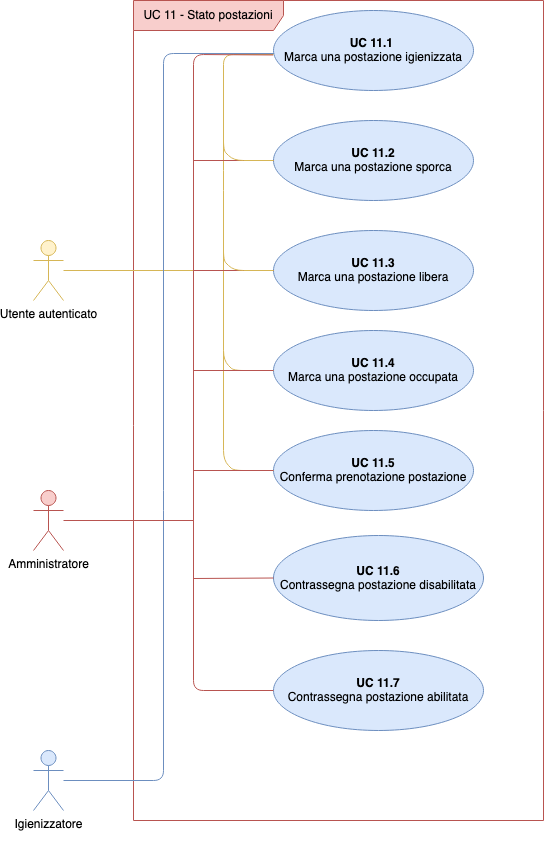
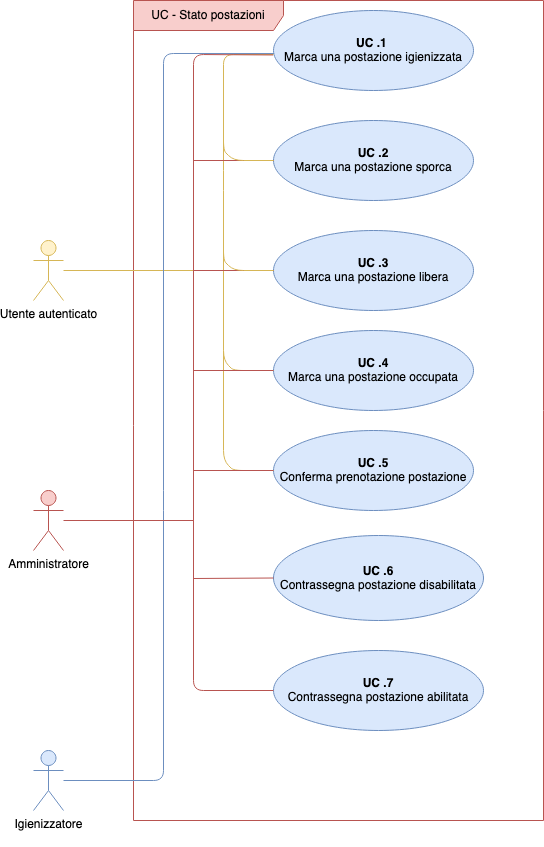
Rimosso numero progressivo UC
Rimosso numero progressivo UC, in attesa di uniformare gli UC prodotti non appena saranno tutti disponibili

diff --git a/DocumentiEsterni/AnalisiDeiRequisiti/src/CasiDUso/src/UC11.tex b/DocumentiEsterni/AnalisiDeiRequisiti/src/CasiDUso/src/UC11.tex
@@ -1,9 +1,9 @@
-\subsubsection{UC 11 - Stato Postazioni}
+\subsubsection{UC - Stato Postazioni}
 
 \begin{figure}[h]
   \centering
     \includegraphics[scale=0.5]{src/CasiDUso/Immagini/UC11.png}
-  \caption{UC11  - Stato prenotazioni}
+  \caption{UC  - Stato prenotazioni}
 \end{figure}
 
 Il presente diagramma vuole riassumere la possibilità di prenotazione delle prenotazioni da parte di un utilizzatore dell’applicazione.
@@ -20,7 +20,7 @@ Il presente diagramma vuole riassumere la possibilità di prenotazione delle pre
 	\end{itemize}
 \end{itemize}
 
-\subsubsection{UC11.1 - Marca postazione igienizzata}
+\subsubsection{UC .1 - Marca postazione igienizzata}
 
 \begin{itemize}
 \item \textbf{Attori primari:} utente autenticato, igienizzatore, amministratore;
@@ -38,7 +38,7 @@ Il presente diagramma vuole riassumere la possibilità di prenotazione delle pre
 	\end{itemize}
 \end{itemize}
 
-\subsubsection{UC11.2 - Marca postazione sporca}
+\subsubsection{UC .2 - Marca postazione sporca}
 
 \begin{itemize}
 \item \textbf{Attori primari:} utente autenticato, amministratore;
@@ -56,7 +56,7 @@ Il presente diagramma vuole riassumere la possibilità di prenotazione delle pre
 	\end{itemize}
 \end{itemize}
 \newpage
-\subsubsection{UC11.3 - Marca postazione libera}
+\subsubsection{UC .3 - Marca postazione libera}
 
 \begin{itemize}
 \item \textbf{Attori primari:} utente autenticato, amministratore;
@@ -74,7 +74,7 @@ Il presente diagramma vuole riassumere la possibilità di prenotazione delle pre
 	\end{itemize}
 \end{itemize}
 
-\subsubsection{UC11.4 - Marca postazione occupata}
+\subsubsection{UC .4 - Marca postazione occupata}
 
 \begin{itemize}
 \item \textbf{Attori primari:} utente autenticato, amministratore;
@@ -92,7 +92,7 @@ Il presente diagramma vuole riassumere la possibilità di prenotazione delle pre
 	\end{itemize}
 \end{itemize}
 
-\subsubsection{UC11.5 - Conferma prenotazione della postazione}
+\subsubsection{UC .5 - Conferma prenotazione della postazione}
 
 \begin{itemize}
 \item \textbf{Attori primari:} utente autenticato, amministratore;
@@ -106,7 +106,7 @@ Il presente diagramma vuole riassumere la possibilità di prenotazione delle pre
 	\end{itemize}
 \end{itemize}
 
-\subsubsection{UC11.6 - Contrassegna postazione disabilitata}
+\subsubsection{UC .6 - Contrassegna postazione disabilitata}
 
 \begin{itemize}
 \item \textbf{Attori primari:} amministratore;
@@ -121,7 +121,7 @@ Il presente diagramma vuole riassumere la possibilità di prenotazione delle pre
 	\end{itemize}
 \end{itemize}
 
-\subsubsection{UC11.7 - Contrassegna postazione abilitata}
+\subsubsection{UC .7 - Contrassegna postazione abilitata}
 
 \begin{itemize}
 \item \textbf{Attori primari:} amministratore;

diff --git a/DocumentiEsterni/AnalisiDeiRequisiti/src/CasiDUso/src/UC5.tex b/DocumentiEsterni/AnalisiDeiRequisiti/src/CasiDUso/src/UC5.tex
@@ -1,9 +1,9 @@
-\subsubsection{UC 5 - Creazione di una prenotazione}
+\subsubsection{UC - Creazione di una prenotazione}
 
 \begin{figure}[h]
   \centering
     \includegraphics[scale=0.5]{src/CasiDUso/Immagini/UC5.png}
-  \caption{UC5  - Creazione di una prenotazione}
+  \caption{UC  - Creazione di una prenotazione}
 \end{figure}
 
 Il presente diagramma vuole riassumere la possibilità di gestione delle prenotazioni da parte di un utente autenticato nell’applicazione.
@@ -21,7 +21,7 @@ Il presente diagramma vuole riassumere la possibilità di gestione delle prenota
 	\end{itemize}
 \end{itemize}
 
-\subsubsection{UC5.1 - Creazione di una prenotazione}
+\subsubsection{UC .1 - Creazione di una prenotazione}
 
 \begin{itemize}
 \item \textbf{Attori primari:} utente autenticato;
@@ -39,7 +39,7 @@ Il presente diagramma vuole riassumere la possibilità di gestione delle prenota
 	\end{itemize}
 \end{itemize}
 
-\subsubsection{UC5.2 - Modifica di una prenotazione}
+\subsubsection{UC .2 - Modifica di una prenotazione}
 
 \begin{itemize}
 \item \textbf{Attori primari:} utente autenticato;
@@ -57,7 +57,7 @@ Il presente diagramma vuole riassumere la possibilità di gestione delle prenota
 	\end{itemize}
 \end{itemize}
 
-\subsubsection{UC5.3 - Cancellazione di una prenotazione}
+\subsubsection{UC .3 - Cancellazione di una prenotazione}
 
 \begin{itemize}
 \item \textbf{Attori primari:} utente autenticato;
@@ -74,7 +74,7 @@ Il presente diagramma vuole riassumere la possibilità di gestione delle prenota
 	\end{itemize}
 \end{itemize}
 
-\subsubsection{UC5.4 - Visualizzazione di una prenotazione}
+\subsubsection{UC .4 - Visualizzazione di una prenotazione}
 
 \begin{itemize}
 \item \textbf{Attori primari:} utente autenticato;
@@ -91,7 +91,7 @@ Il presente diagramma vuole riassumere la possibilità di gestione delle prenota
 	\end{itemize}
 \end{itemize}
 
-\subsubsection{UC5.5 - Cancellazione di una prenotazione}
+\subsubsection{UC .5 - Cancellazione di una prenotazione}
 
 \begin{itemize}
 \item \textbf{Attori primari:} amministratore;

diff --git a/DocumentiEsterni/AnalisiDeiRequisiti/src/CasiDUso/src/UC40.tex b/DocumentiEsterni/AnalisiDeiRequisiti/src/CasiDUso/src/UC40.tex
@@ -1,9 +1,9 @@
-\subsubsection{UC 40 - Igienizzazione Postazioni}
+\subsubsection{UC - Igienizzazione Postazioni}
 
 \begin{figure}[h]
   \centering
     \includegraphics[scale=0.5]{src/CasiDUso/Immagini/UC40.png}
-  \caption{UC40  - Igienizzazione postazioni}
+  \caption{UC  - Igienizzazione postazioni}
 \end{figure}
 
 Il presente diagramma vuole riassumere la possibilità di igienizzazione delle postazioni da parte di un utente igienizzatore all'interno dell’applicazione.
@@ -20,7 +20,7 @@ Il presente diagramma vuole riassumere la possibilità di igienizzazione delle p
 	\end{itemize}
 \end{itemize}
 
-\subsubsection{UC40.1 - Marca postazione igienizzata}
+\subsubsection{UC .1 - Marca postazione igienizzata}
 
 \begin{itemize}
 \item \textbf{Attori primari:} igienizzatore;
@@ -35,7 +35,7 @@ Il presente diagramma vuole riassumere la possibilità di igienizzazione delle p
 	\end{itemize}
 \end{itemize}
 
-\subsubsection{UC40.2 - Annulla postazione igienizzata}
+\subsubsection{UC .2 - Annulla postazione igienizzata}
 
 \begin{itemize}
 \item \textbf{Attori primari:} igienizzatore;
@@ -50,7 +50,7 @@ Il presente diagramma vuole riassumere la possibilità di igienizzazione delle p
 		\end{itemize}
 \end{itemize}
 
-\subsubsection{UC40.3 - Marca stanza igienizzata}
+\subsubsection{UC .3 - Marca stanza igienizzata}
 
 \begin{itemize}
 \item \textbf{Attori primari:} igienizzatore;
@@ -68,7 +68,7 @@ Il presente diagramma vuole riassumere la possibilità di igienizzazione delle p
 		\end{itemize}
 \end{itemize}
 
-\subsubsection{UC40.4 - Marca stanza non igienizzata}
+\subsubsection{UC .4 - Marca stanza non igienizzata}
 
 \begin{itemize}
 \item \textbf{Attori primari:} igienizzatore;
@@ -83,7 +83,7 @@ Il presente diagramma vuole riassumere la possibilità di igienizzazione delle p
 	\end{itemize}
 \end{itemize}
 
-\subsubsection{UC40.5 - Disabilita stanza}
+\subsubsection{UC .5 - Disabilita stanza}
 
 \begin{itemize}
 \item \textbf{Attori primari:} igienizzatore;
